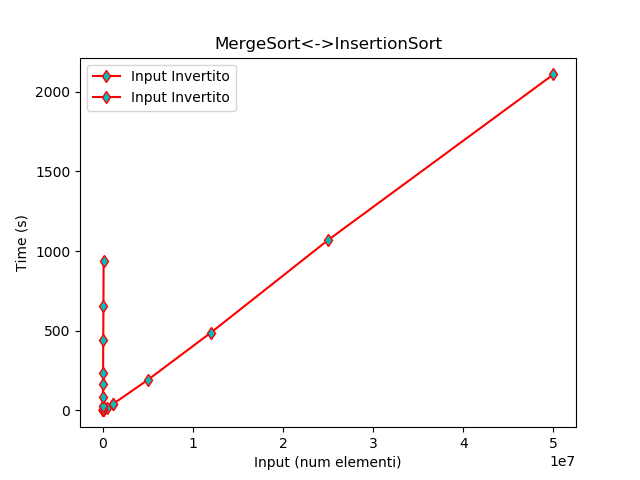
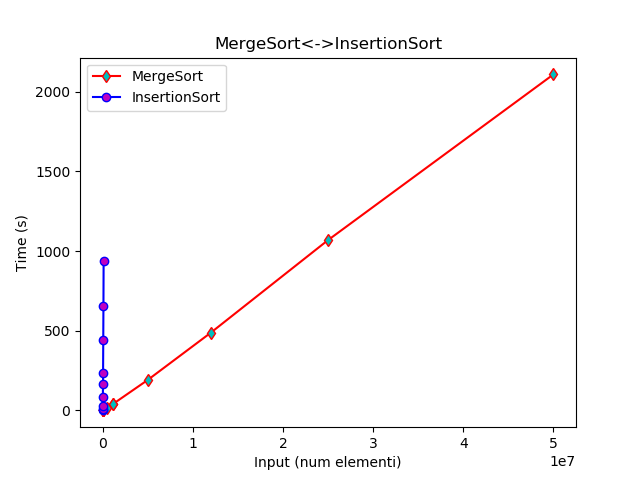
Aggiornato il README.md

Changed region(s): [[0.2188, 0.125, 0.375, 0.2188], [0.1562, 0.5312, 0.1875, 0.875], [0.1562, 0.1875, 0.1875, 0.2188]]

diff --git a/main.py b/main.py
@@ -22,29 +22,29 @@ def setup(is_simulation=False, switch=0, algoritmo="MergeSort", dim_array=10, fu
             elif switch == 4:
                 if algoritmo == "MergeSort":
                     algoritmo2 = "InsertionSort"
-                    plot_mode(0, algoritmo, full)
+                    plot_mode(0, algoritmo, full, name=str(algoritmo) + "<->" + str(algoritmo2))
                     plot_mode(0, algoritmo2, full, name=str(algoritmo) + "<->" + str(algoritmo2))
                 elif algoritmo == "InsertionSort":
                     algoritmo2 = "MergeSort"
-                    plot_mode(0, algoritmo, full)
+                    plot_mode(0, algoritmo, full, name=str(algoritmo) + "<->" + str(algoritmo2))
                     plot_mode(0, algoritmo2, full, name=str(algoritmo)+"<->"+str(algoritmo2))
             elif switch == 5:
                 if algoritmo == "MergeSort":
                     algoritmo2 = "InsertionSort"
-                    plot_mode(1, algoritmo, full)
+                    plot_mode(1, algoritmo, full, name=str(algoritmo) + "<->" + str(algoritmo2))
                     plot_mode(1, algoritmo2, full, name=str(algoritmo) + "<->" + str(algoritmo2))
                 elif algoritmo == "InsertionSort":
                     algoritmo2 = "MergeSort"
-                    plot_mode(1, algoritmo, full)
+                    plot_mode(1, algoritmo, full, name=str(algoritmo) + "<->" + str(algoritmo2))
                     plot_mode(1, algoritmo2, full, name=str(algoritmo)+"<->"+str(algoritmo2))
             elif switch == 6:
                 if algoritmo == "MergeSort":
                     algoritmo2 = "InsertionSort"
-                    plot_mode(2, algoritmo, full)
+                    plot_mode(2, algoritmo, full, name=str(algoritmo) + "<->" + str(algoritmo2))
                     plot_mode(2, algoritmo2, full, name=str(algoritmo) + "<->" + str(algoritmo2))
                 elif algoritmo == "InsertionSort":
                     algoritmo2 = "MergeSort"
-                    plot_mode(2, algoritmo, full)
+                    plot_mode(2, algoritmo, full, name=str(algoritmo) + "<->" + str(algoritmo2))
                     plot_mode(2, algoritmo2, full, name=str(algoritmo)+"<->"+str(algoritmo2))
             else:
                 plot_mode(switch, algoritmo, full)

diff --git a/plott.py b/plott.py
@@ -16,27 +16,42 @@ def draw_graphic(list_input, tipo_input, algoritmo, name):
     list_y = create_data_array(list_x, tipo_input, algoritmo)
     plt.xlabel("Input (num elementi)")
     plt.ylabel("Time (s)")
-    label = "Input " + str(tipo_input)
-    if tipo_input == "Casuale":
-        color = "b"
-        mark = "^"
-        mk_face_color = "m"
-    elif tipo_input == "Invertito":
-        color = "r"
-        mark = "d"
-        mk_face_color = "c"
-    elif tipo_input == "Ordinato":
-        color = "g"
-        mark = "o"
-        mk_face_color = "y"
-    else:
-        color = "w"
-        mark = "o"
-        mk_face_color = "y"
-    plt.plot(list_x, list_y, label=label, color=color, marker=mark, markerfacecolor=mk_face_color)
-    plt.legend()
     if name == "":
         name = str(algoritmo)
+        if tipo_input == "Casuale":
+            color = "b"
+            mark = "^"
+            mk_face_color = "m"
+            label = "Input " + str(tipo_input)
+        elif tipo_input == "Invertito":
+            color = "r"
+            mark = "d"
+            mk_face_color = "c"
+            label = "Input " + str(tipo_input)
+        elif tipo_input == "Ordinato":
+            color = "g"
+            mark = "o"
+            mk_face_color = "y"
+            label = "Input " + str(tipo_input)
+        else:
+            color = "w"
+            mark = "o"
+            mk_face_color = "y"
+            label = "Input " + str(tipo_input)
+    else:
+        if algoritmo == "MergeSort":
+            color = "r"
+            mark = "d"
+            mk_face_color = "c"
+            label = str(algoritmo)
+        elif algoritmo == "InsertionSort":
+            color = "b"
+            mark = "o"
+            mk_face_color = "m"
+            label = str(algoritmo)
+
+    plt.plot(list_x, list_y, label=label, color=color, marker=mark, markerfacecolor=mk_face_color)
+    plt.legend()
     plt.title(name)
 
 

diff --git a/super_main.py b/super_main.py
@@ -2,11 +2,11 @@ import main
 
 # SETUP
 SimulationMode = False  # IF FALSE: PLOT MODE
-switch = 1  # 0=Casuale 1=Invertito 2=Ordinato | 3=Tutti i plot dello stesso algoritmo
+switch = 5  # 0=Casuale 1=Invertito 2=Ordinato | 3=Tutti i plot dello stesso algoritmo
 #           #  4-5-6 compara i due algoritmi in: RAND-INV-ORD
 algoritmo = "MergeSort"  # InsertionSort | MergeSort
 dim_array = 35000  # For simulation
-full = False
+full = True
 
 
 ######################################################################

diff --git a/README.md b/README.md
@@ -1,7 +1,8 @@
 ## Homework 3: Insertion Sort and Merge Sort
 Questo Homework mostra quanto tempo è richiesto per eseguire un ordinamento in base a varie condizioni di input, 
 sfruttando l'algoritmo **_Merge Sort_** e l'algoritmo **_InsertionSort_**. 
-Sono salvati, nella cartella plot, gli andamenti dei vari casi visitati in una immagine formato png.
+Sono salvati, nella cartella "_Plot_", gli andamenti dei vari casi visitati in una immagine formato png.
+Nella cartella "_Test_" sono invece salvati i risultati delle simulazioni.
         
     Per usare il programma bisogna avviarlo da super_main.py, nel quale ci sono 3 flag da poter modificare:
 
